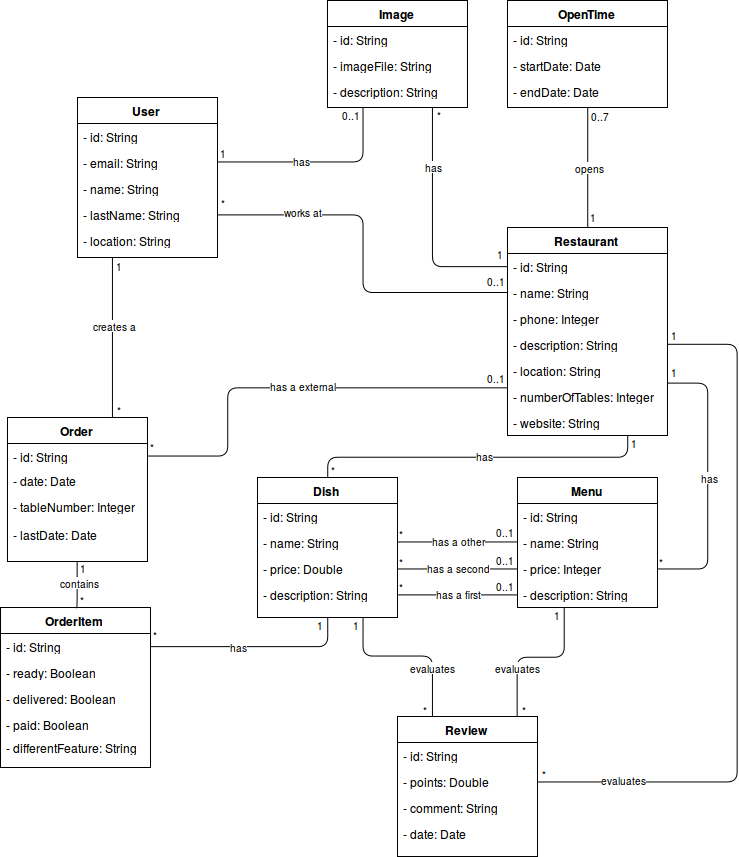
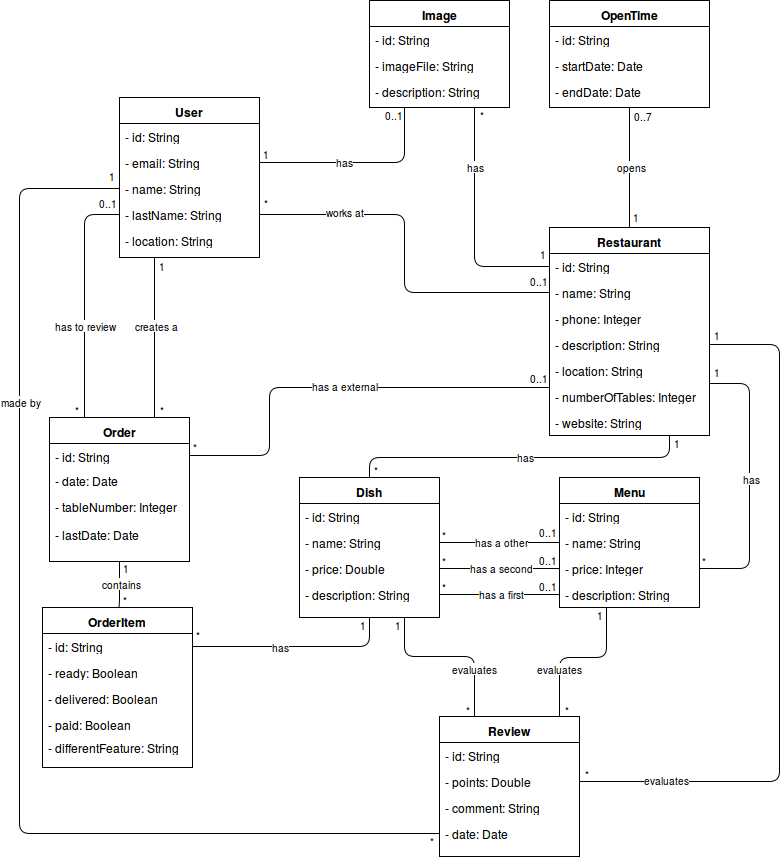
finish conceptual schema. closes #4

diff --git a/Chapters/Chapter5.tex b/Chapters/Chapter5.tex
@@ -12,7 +12,34 @@ Després d'haver explicat l'origen de \textit{Wisebite}, haver estudiat les solu
 
 \section{Esquema conceptual}
 
-L'esquema conceptual d'un sistema és la representació gràfica dels models que caracteritzen aquest. En Enginyeria del Software això és conegut com un diagrama de classes\cite{diagramaclases}. Primerament, s'expressarà en format UML i posteriorment s'explicarà textualment.
+L'esquema conceptual d'un sistema és la representació gràfica dels models que caracteritzen aquest. En Enginyeria del Software això és conegut com un diagrama de classes\cite{diagramaclases}. Primerament, s'explicarà textualment les entitats que participen en l'esquema conceptual i posteriorment es mostrà el diagrama de classes representatiu.
+
+\subsection{Descripció de les classes}
+
+L'esquema conceptual del projecte \textit{Wisebite} disposa de nou classes que s'explicaran a continuació.
+
+\begin{itemize}
+\item \textbf{User}: Un usuari és l'entitat que representa a les persones que utilitzaran l'aplicació i les seves funcionalitats. Un usuari té un \textit{id}, que l'identifica, un \textit{correu electrònic} (email), un \textit{nom} (name), un \textit{cognom} (lastName) i una \textit{localització} (location). Cada usuari pot o no tenir una imatge de perfil, treballa o no a un restaurant, pot crear moltes comandes, pot disposar d'un seguit de comandes a valorar i pot tenir d'un conjunt de valoracions realitzades emmagatzemades dins la plataforma.
+
+\item \textbf{Image}: Una imatge és l'entitat que representa una imatge emmagatzemada al sistema. Una imatge té un \textit{id}, que l'identifica, una \textit{ruta} per localitzar-la quan sigui necessari (imageFile) i una \textit{descripció} (description). Cada imatge pot estar relacionada o amb un usuari o bé amb un restaurant.
+
+\item \textbf{Restaurant}: Un restaurant és l'entitat que representa a l'establiment de restauració que engloba l'objectiu de la plataforma. Un restaurant té un \textit{id}, que l'identifica, un \textit{nom} (name), un \textit{telèfon} de contacte (phone), una \textit{descripció} (description), una \textit{localització} (location), un \textit{nombre de taules} (numberOfTables) i la direcció de la \textit{pàgina web} (website). Cada restaurant pot disposar de fins a set horaris d'apertura, pot tenir moltes imatges associades, molts usuaris formant l'equip de treball de l'establiment, pot tenir un conjunt de comandes externes, un conjunt de plats i menús que composen la carta de l'establiment i un grup d'avaluacions realitzades pels usuaris de la plataforma.
+
+\item \textbf{OpenTime}: Un horari d'apertura és l'entitat que representa l'horari d'inici i final d'una franja horària. Un horari d'apertura té un \textit{id}, que l'identifica, un \textit{horari d'inici} (startDate) i un \textit{horari fi} (endDate). Cada horari d'apertura està relacionat amb un restaurant.
+
+\item \textbf{Dish}: Un plat és l'entitat que representa al plat de forma individual. Un plat té un \textit{id}, que l'identifica, un \textit{nom} (name), una \textit{descripció} (description) i un \textit{preu} (price). Cada plat forma part d'un restaurant, pot ser part d'un menú especific jugant el paper de plat principal, secundari o alternatiu, pot tenir un conjunt de valoracions dels usuaris de l'aplicació i forma part d'un seguit de línies de comanda.
+
+\item \textbf{Menu}: Un menu és l'entitat que representa a un menú de la carta de l'establiment. Un menú té un \textit{id}, que l'identifica,un \textit{nom} (name), una \textit{descripció} (description) i un \textit{preu} (price). Cada menú forma part d'un restaurant i pot tenir un conjunt de valoracions dels usuaris de l'aplicació.
+
+\item \textbf{Order}: Una comanda és l'entitat que representa la petició d'un client dins d'un establiment de restauració. Una comanda té un \textit{id}, que l'identifica, una \textit{data} d'inici (date), un \textit{número de taula} (tableNumber) i una \textit{data d'última modificació} (lastDate). Cada comanda es creada per un dels usuaris de la plataforma, pot estar en la llista de comandes a valorar per part d'un usuari, pot ser part del conjunt de comandes externes de l'aplicació i conté un conjunt de línies de comanda.
+
+\item \textbf{OrderItem}: Una línia de comanda és l'entitat que representa un dels elements del llistat que forma una comanda. Una línia de comanda té un \textit{id}, que l'identifica, pot estar o no \textit{preparat} (ready), pot estar o no \textit{estregat} (delivered), pot estar o no \textit{pagat} (paid) i té una \textit{característica diferent} (differentFeature). Cada línia de comanda forma part d'una comanda i té un plat dins del restaurant associat.
+
+\item \textbf{Review}: Una valoració és l'entitat que representa l'opinió d'un usuari sobre un plat, un menú o un restaurant. Una valoració té un \textit{id}, que l'identifica, una \textit{puntuació} (points), un \textit{comentari} (comment) i una \textit{data} de realització (date). Cada valoració està sempre relacionada o bé amb un plat, o amb un menú o amb un restaurant i ha estat realitzada per un usuari.
+\end{itemize}
+
+\clearpage
+\subsection{Diagrama de classes}
 
 \begin{figure}[!h]
 \centering
